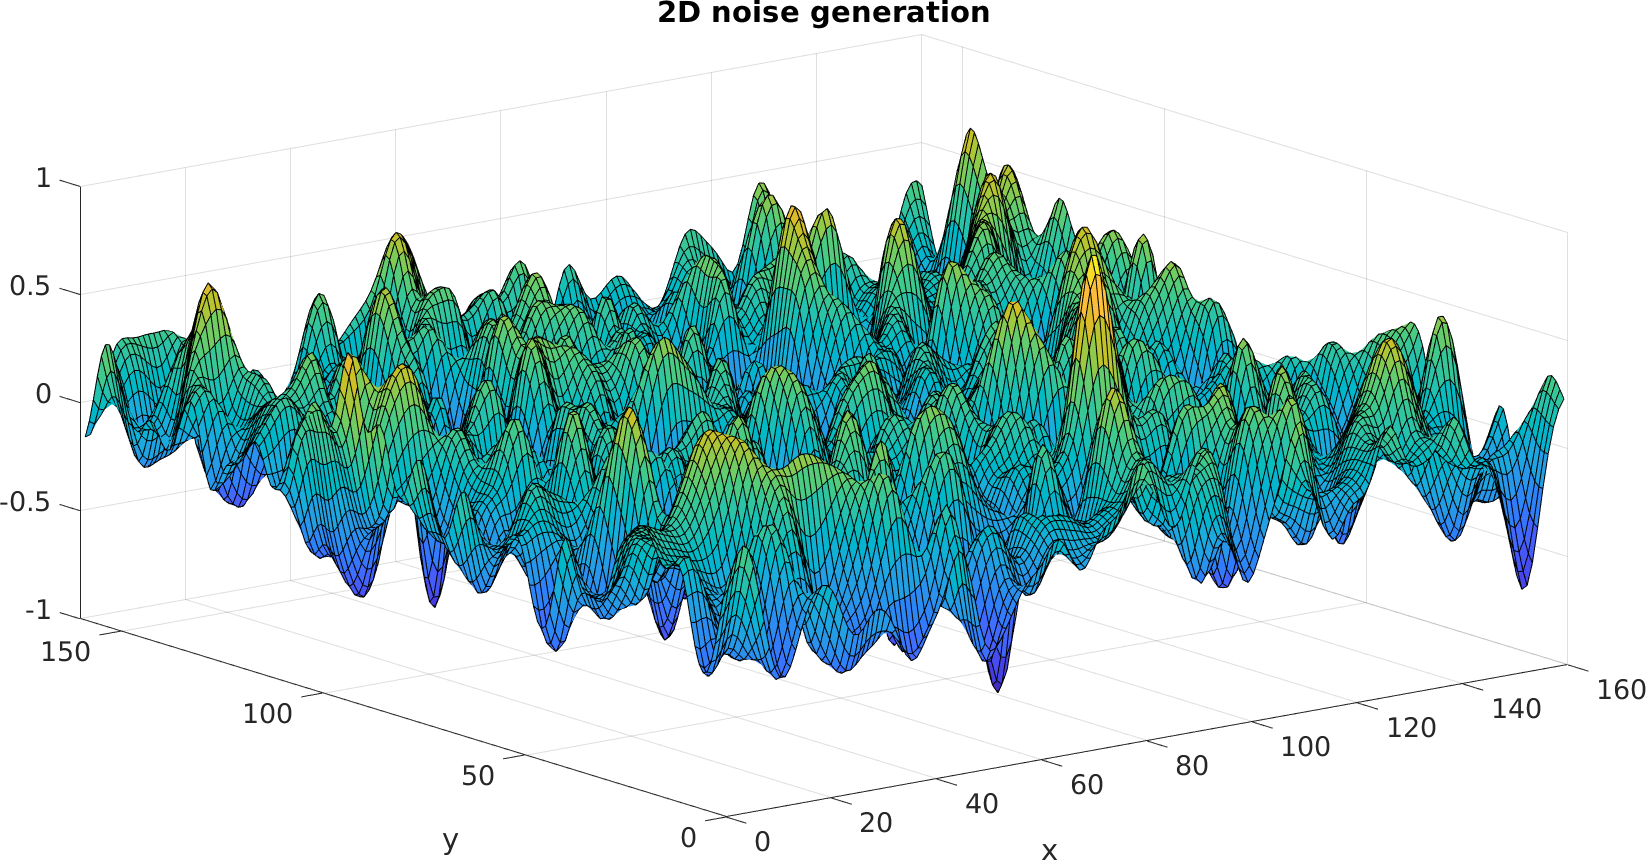
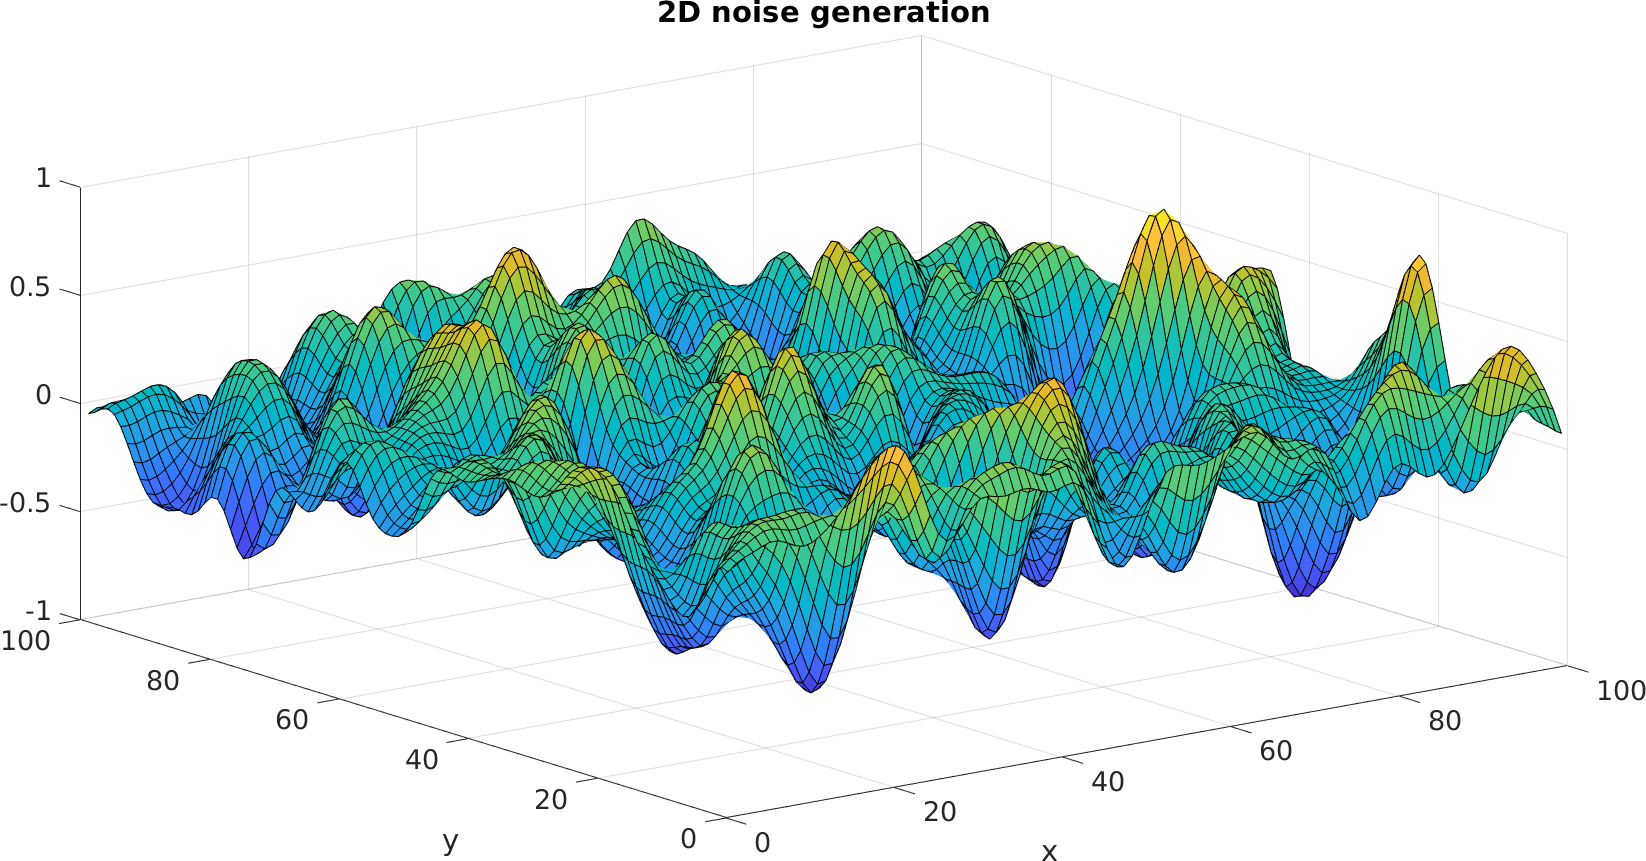
backup

diff --git a/Random_Field_Generation/noisegen.m b/Random_Field_Generation/noisegen.m
@@ -27,7 +27,7 @@ function data = noisegen( Dim, nSubj, FWHM, shape_of_array )
 % noise = noisegen(160,20,6);
 % plot(mean(noise,2), 'linewidth', 2)
 %
-% Dim = [160,160]
+% Dim = [100,100]
 % noise = noisegen(Dim, 20, 6);
 % noise_mean = mean(noise,3);
 % surf(noise_mean)

diff --git a/Figures/Readme_figures.m b/Figures/Readme_figures.m
@@ -19,7 +19,7 @@ pos_vector = [0,550,2000,1000];
 set(0,'defaultAxesFontSize', 20);
 set(gcf, 'position', pos_vector)
 
-Dim = [160,160];
+Dim = [100,100];
 noise = noisegen(Dim, 20, 6);
 noise_mean = mean(noise,3);
 surf(noise_mean)
